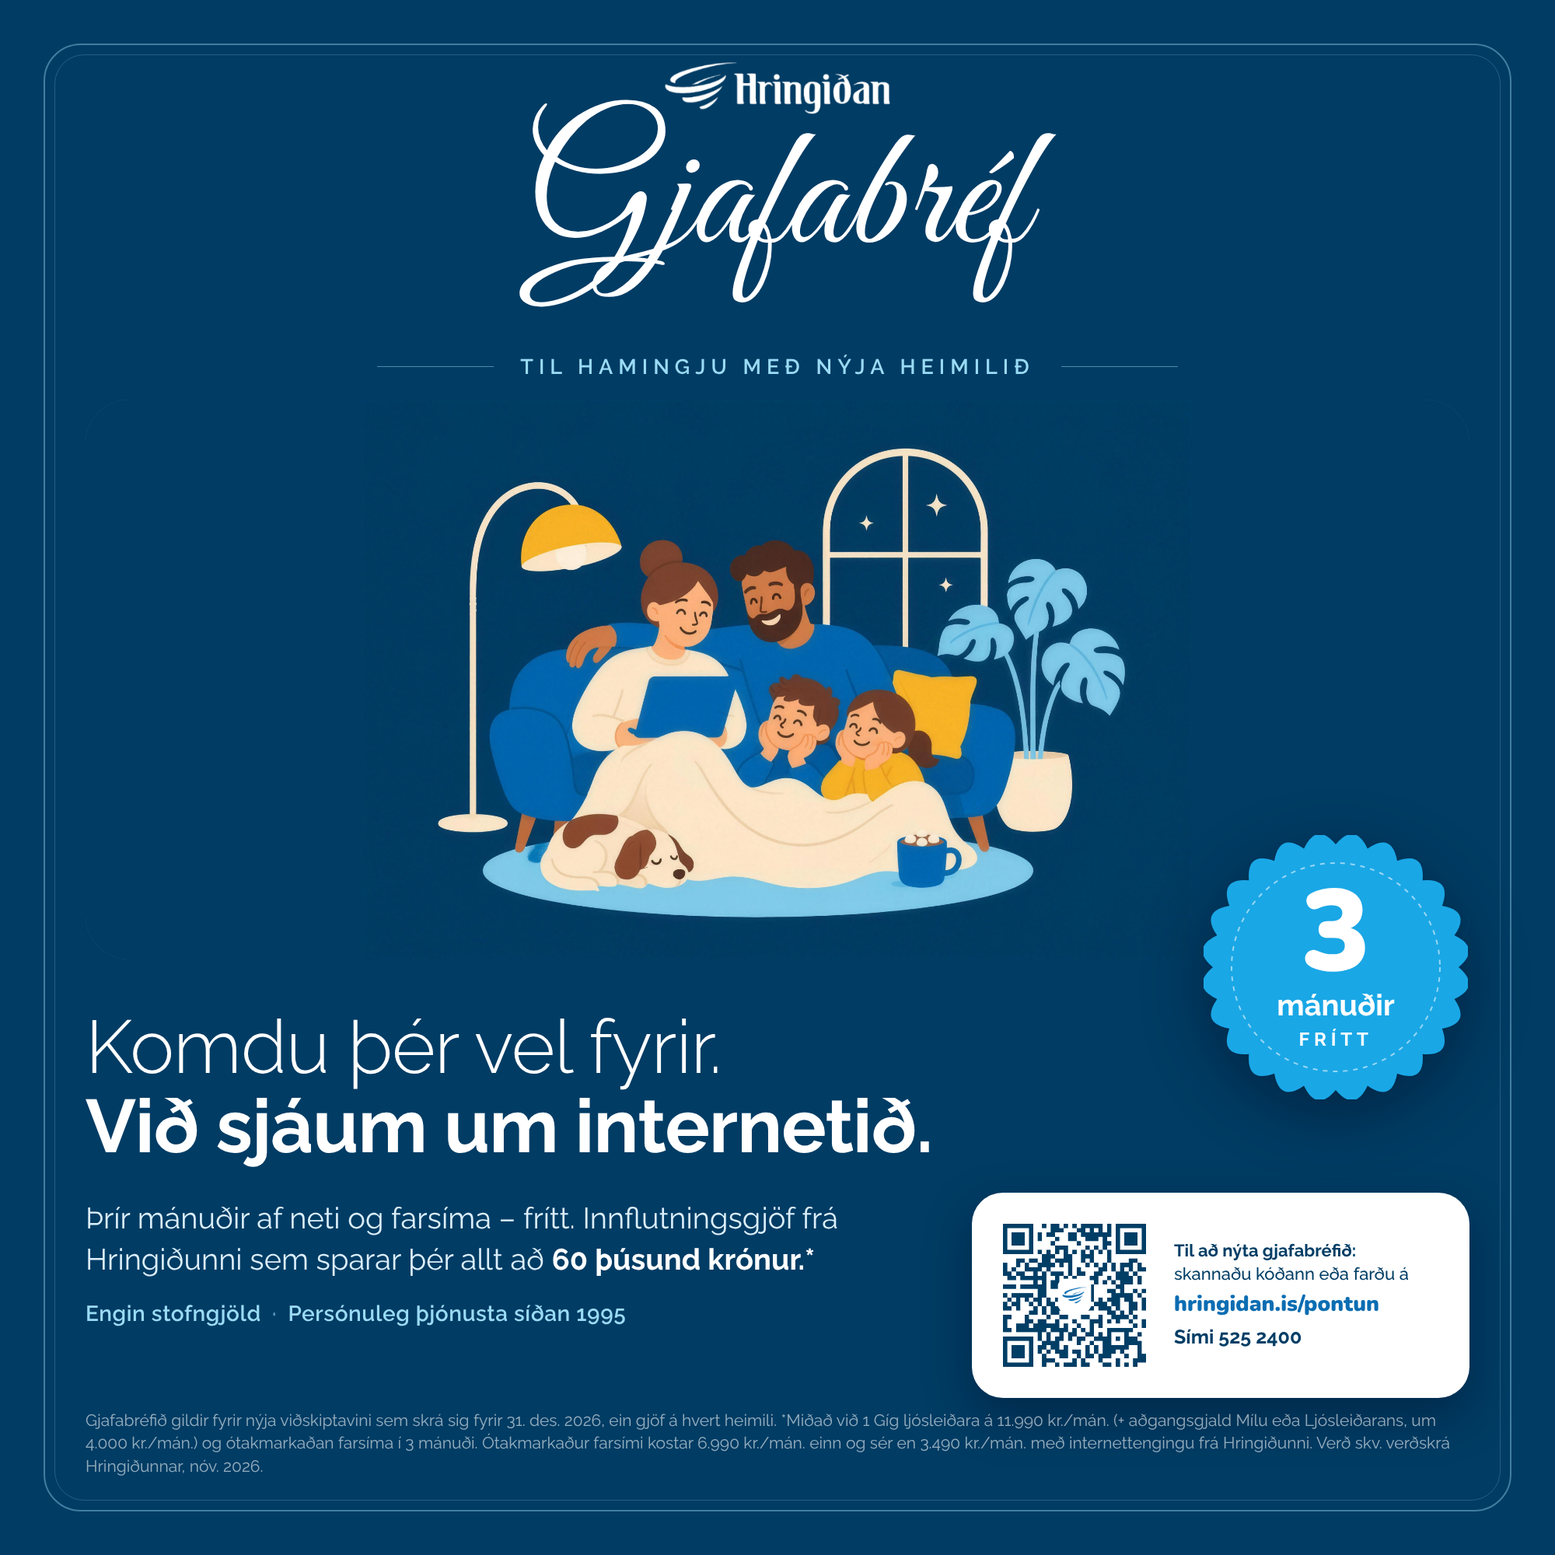
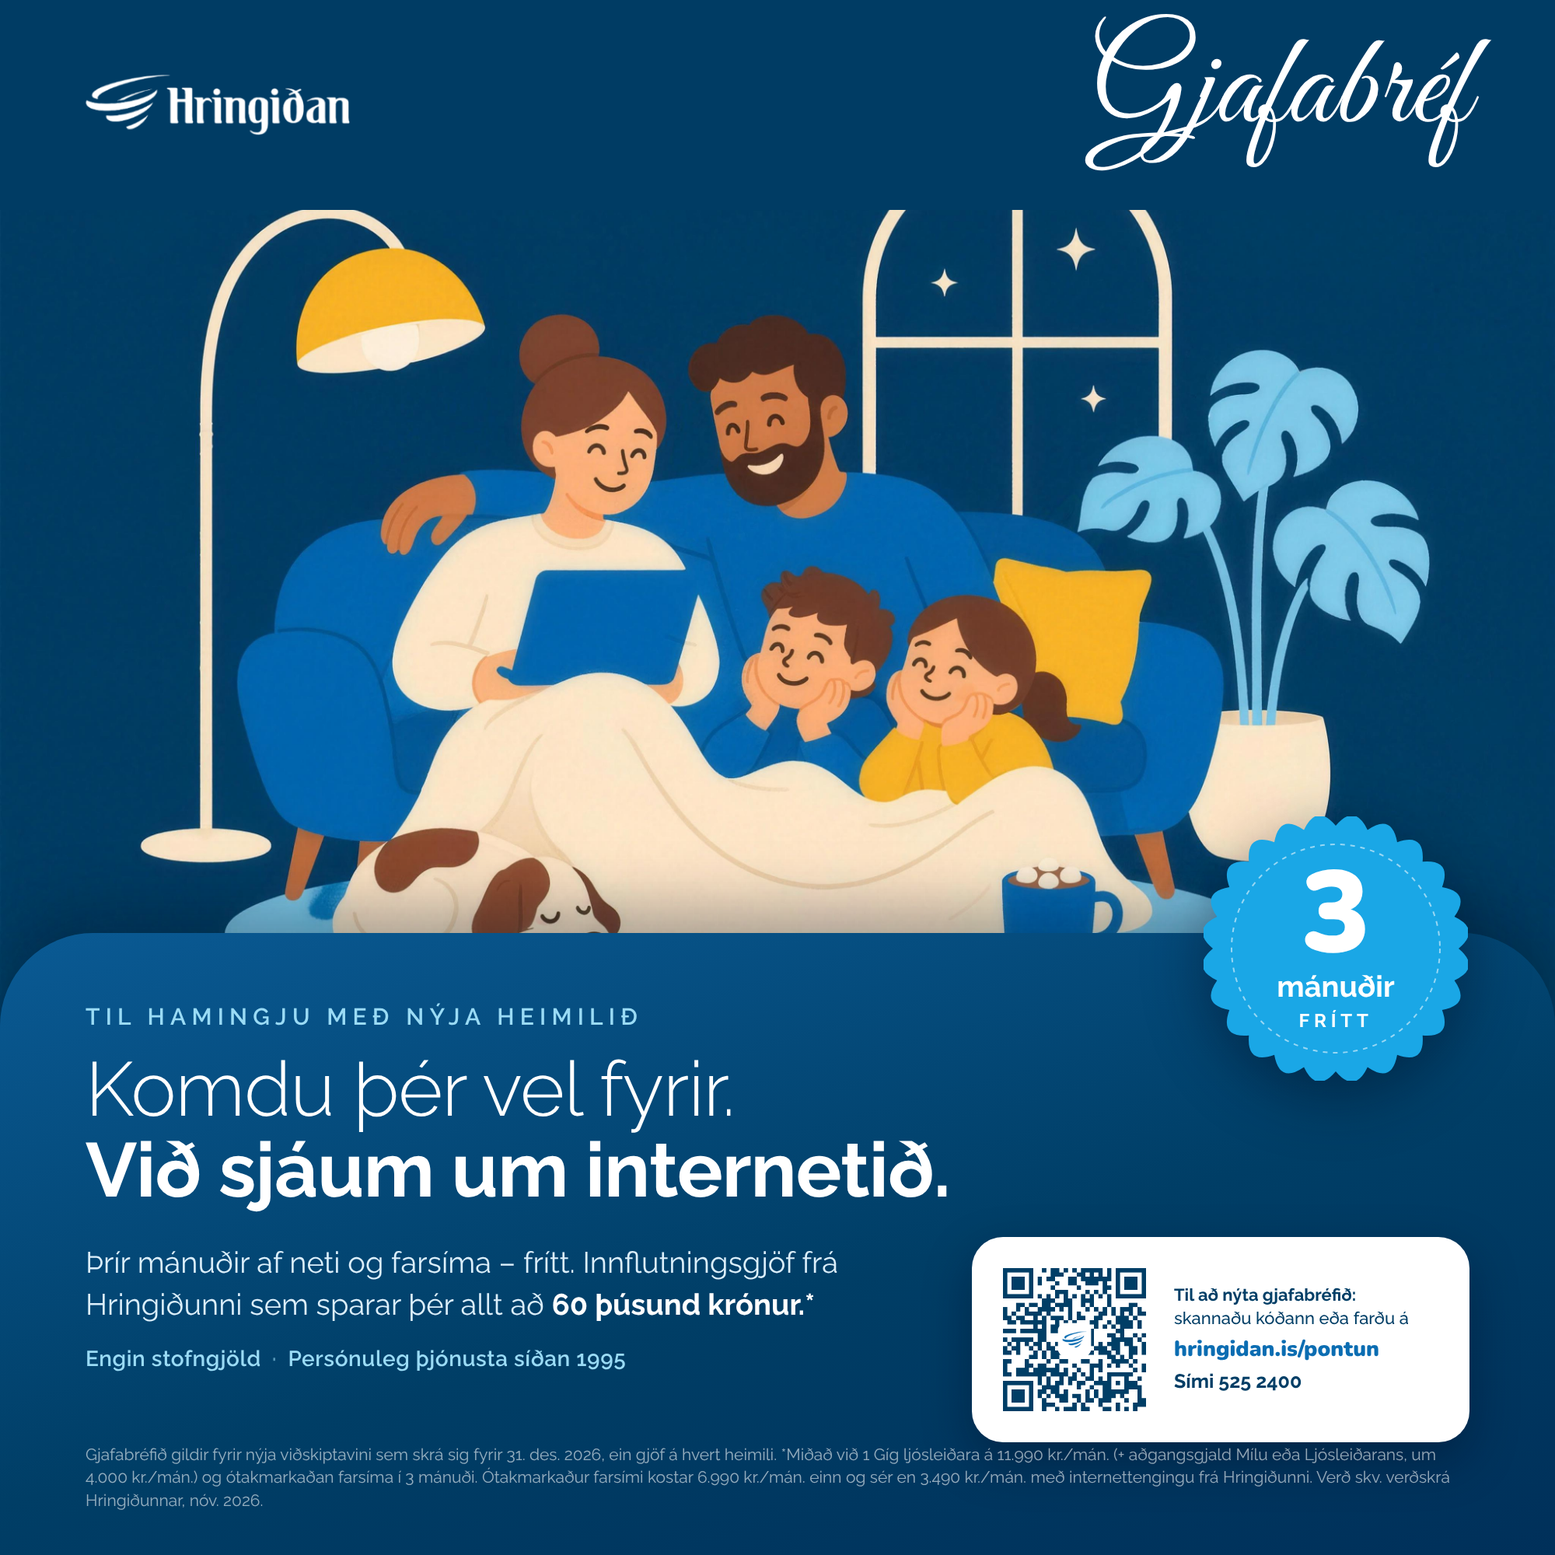
Hringiðan gjafabréf: aftur í fyrstu uppsetningu með navy-bandi og skrautskrift
Myndin aftur út í kant og neðar, navy-band efst með lógói vinstra megin og
„Gjafabréf" í skrautskrift hægra megin svo ekkert skarist. Nýja ljósmyndin
og nýi textinn halda sér. Rammaútgáfan færð í eldri/.

Claude-Session: https://claude.ai/code/session_01JAXd2m9cesSq5STdzJxvnq

diff --git a/auglysingar/hringidan/src/hringidan-gjafabref-ljosmynd.html b/auglysingar/hringidan/src/hringidan-gjafabref-ljosmynd.html
@@ -1,26 +1,17 @@
-<!doctype html><html lang="is"><head><meta charset="utf-8"><title>Hringiðan – Gjafabréf</title>
+<!doctype html><html lang="is"><head><meta charset="utf-8"><title>Hringiðan – Gjafabréf (ljósmynd)</title>
 <link rel="stylesheet" href="base.css">
 <style>
   @font-face { font-family: 'GreatVibes'; src: url('GreatVibes.woff2') format('woff2'); }
   .ad { background: #003C64; color: #fff; }
-  .frame  { position: absolute; inset: 56px; border: 2px solid rgba(154,219,245,.42); border-radius: 48px; pointer-events: none; }
-  .frame2 { position: absolute; inset: 70px; border: 1px solid rgba(154,219,245,.22); border-radius: 38px; pointer-events: none; }
-  .logo { position: absolute; left: 50%; top: 80px; width: 290px; transform: translateX(-50%); }
-  .title { position: absolute; left: 0; right: 0; top: 150px; text-align: center; font-family: 'GreatVibes', cursive; font-size: 222px; line-height: 1; color: #fff; }
-  .eyebrow { position: absolute; left: 110px; right: 110px; top: 456px; display: flex; align-items: center; justify-content: center; gap: 34px;
-             font-size: 27px; font-weight: 600; letter-spacing: .26em; text-transform: uppercase; color: var(--sky); }
-  .eyebrow::before, .eyebrow::after { content: ""; width: 150px; height: 1px; background: rgba(154,219,245,.5); }
-  .photo { position: absolute; left: 110px; top: 514px; width: 1780px; height: 720px; border-radius: 56px; overflow: hidden;
-           box-shadow: 0 30px 80px rgba(0,10,30,.45), inset 0 0 0 2px rgba(255,255,255,.10); }
-  .photo img { width: 1780px; height: 720px; object-fit: cover; object-position: 50% 62%; display: block; }
-  .seal { position: absolute; left: 1548px; top: 1074px; width: 340px; height: 340px; filter: drop-shadow(0 22px 40px rgba(0,10,30,.45)); }
-  .seal svg { width: 340px; height: 340px; display: block; }
-  .seal .t { position: absolute; inset: 0; display: flex; flex-direction: column; align-items: center; justify-content: center; text-align: center; }
-  .seal .big { font-family: 'Nunito', sans-serif; font-weight: 900; font-size: 148px; line-height: .9; margin-top: -4px; }
-  .seal .mid { font-size: 38px; font-weight: 700; line-height: 1; margin-top: 8px; }
-  .seal .small { font-size: 24px; font-weight: 700; letter-spacing: .24em; text-transform: uppercase; margin-top: 10px; }
-  .body { position: absolute; left: 110px; right: 110px; top: 1296px; }
-  .headline { font-size: 96px; line-height: 1.06; font-weight: 300; letter-spacing: -0.01em; }
+  .head { position: absolute; left: 0; top: 0; width: 2000px; height: 270px; background: #003C64; }
+  .logo { position: absolute; left: 110px; top: 96px; width: 340px; }
+  .gift { position: absolute; right: 110px; top: 34px; font-family: 'GreatVibes', cursive; font-size: 168px; line-height: 1; color: #fff; }
+  .photo { position: absolute; left: 0; top: 270px; width: 2000px; height: 1010px; overflow: hidden; }
+  .photo img { width: 2000px; height: 1010px; display: block; object-fit: cover; object-position: 50% 72%; }
+  .panel { position: absolute; left: 0; right: 0; top: 1200px; bottom: 0; border-radius: 120px 120px 0 0; padding: 90px 110px 0;
+           background: linear-gradient(165deg, #0A5A94 0%, #003E66 55%, #00305A 100%); box-shadow: 0 -30px 80px rgba(0,20,40,.35); }
+  .eyebrow { font-size: 30px; font-weight: 600; letter-spacing: .24em; text-transform: uppercase; color: var(--sky); }
+  .headline { margin-top: 24px; font-size: 98px; line-height: 1.06; font-weight: 300; letter-spacing: -0.01em; }
   .headline b { font-weight: 700; }
   .row { display: flex; align-items: flex-start; justify-content: space-between; margin-top: 40px; }
   .col { width: 1080px; }
@@ -36,16 +27,20 @@
   .cta .txt b { font-weight: 700; }
   .cta .txt .url { font-family: 'Nunito', sans-serif; font-weight: 900; font-size: 28px; margin: 6px 0 6px; color: var(--blue); }
   .cta .txt .tel { font-size: 25px; font-weight: 700; }
-  .fine { position: absolute; left: 110px; right: 110px; bottom: 100px; font-size: 21px; line-height: 1.4; color: rgba(255,255,255,.58); }
+  .fine { position: absolute; left: 110px; right: 110px; bottom: 56px; font-size: 21px; line-height: 1.4; color: rgba(255,255,255,.58); }
+  .seal { position: absolute; left: 1548px; top: 1050px; width: 340px; height: 340px; filter: drop-shadow(0 22px 40px rgba(0,10,30,.45)); }
+  .seal svg { width: 340px; height: 340px; display: block; }
+  .seal .t { position: absolute; inset: 0; display: flex; flex-direction: column; align-items: center; justify-content: center; text-align: center; }
+  .seal .big { font-family: 'Nunito', sans-serif; font-weight: 900; font-size: 148px; line-height: .9; margin-top: -4px; }
+  .seal .mid { font-size: 38px; font-weight: 700; line-height: 1; margin-top: 8px; }
+  .seal .small { font-size: 24px; font-weight: 700; letter-spacing: .24em; text-transform: uppercase; margin-top: 10px; }
 </style></head><body><div class="ad">
-  <div class="frame"></div><div class="frame2"></div>
+  <div class="head"></div>
   <img class="logo" src="logo_white.png" alt="Hringiðan">
-  <div class="title">Gjafabréf</div>
-  <div class="eyebrow">Til hamingju með nýja heimilið</div>
+  <div class="gift">Gjafabréf</div>
   <div class="photo"><img src="photo_c.jpg" alt=""></div>
-  <div class="seal"><svg viewBox="0 0 340 340"><path d="M328.0,170.0 Q357.2,194.6 322.6,210.9 Q344.4,242.3 306.8,249.0 Q319.8,284.9 281.7,281.7 Q284.9,319.8 249.0,306.8 Q242.3,344.4 210.9,322.6 Q194.6,357.2 170.0,328.0 Q145.4,357.2 129.1,322.6 Q97.7,344.4 91.0,306.8 Q55.1,319.8 58.3,281.7 Q20.2,284.9 33.2,249.0 Q-4.4,242.3 17.4,210.9 Q-17.2,194.6 12.0,170.0 Q-17.2,145.4 17.4,129.1 Q-4.4,97.7 33.2,91.0 Q20.2,55.1 58.3,58.3 Q55.1,20.2 91.0,33.2 Q97.7,-4.4 129.1,17.4 Q145.4,-17.2 170.0,12.0 Q194.6,-17.2 210.9,17.4 Q242.3,-4.4 249.0,33.2 Q284.9,20.2 281.7,58.3 Q319.8,55.1 306.8,91.0 Q344.4,97.7 322.6,129.1 Q357.2,145.4 328.0,170.0 Z" fill="#1AA7E6"/><circle cx="170" cy="170" r="134" fill="none" stroke="rgba(255,255,255,.55)" stroke-width="2" stroke-dasharray="6 7"/></svg>
-    <div class="t"><div class="big">3</div><div class="mid">mánuðir</div><div class="small">frítt</div></div></div>
-  <div class="body">
+  <div class="panel">
+    <div class="eyebrow">Til hamingju með nýja heimilið</div>
     <div class="headline">Komdu þér vel fyrir.<br><b>Við sjáum um internetið.</b></div>
     <div class="row">
       <div class="col">
@@ -57,6 +52,8 @@
         <div class="txt"><b>Til að nýta gjafabréfið:</b><br>skannaðu kóðann eða farðu&nbsp;á<div class="url">hringidan.is/pontun</div><div class="tel">Sími 525 2400</div></div>
       </div>
     </div>
+    <p class="fine">Gjafabréfið gildir fyrir nýja viðskiptavini sem skrá sig fyrir 31. des. 2026, ein gjöf á hvert heimili. *Miðað við 1 Gíg ljósleiðara á 11.990 kr./mán. (+ aðgangsgjald Mílu eða Ljósleiðarans, um 4.000 kr./mán.) og ótakmarkaðan farsíma í 3 mánuði. Ótakmarkaður farsími kostar 6.990 kr./mán. einn og sér en 3.490 kr./mán. með internettengingu frá Hringiðunni. Verð skv. verðskrá Hringiðunnar, nóv. 2026.</p>
   </div>
-  <p class="fine">Gjafabréfið gildir fyrir nýja viðskiptavini sem skrá sig fyrir 31. des. 2026, ein gjöf á hvert heimili. *Miðað við 1 Gíg ljósleiðara á 11.990 kr./mán. (+ aðgangsgjald Mílu eða Ljósleiðarans, um 4.000 kr./mán.) og ótakmarkaðan farsíma í 3 mánuði. Ótakmarkaður farsími kostar 6.990 kr./mán. einn og sér en 3.490 kr./mán. með internettengingu frá Hringiðunni. Verð skv. verðskrá Hringiðunnar, nóv. 2026.</p>
+  <div class="seal"><svg viewBox="0 0 340 340"><path d="M328.0,170.0 Q357.2,194.6 322.6,210.9 Q344.4,242.3 306.8,249.0 Q319.8,284.9 281.7,281.7 Q284.9,319.8 249.0,306.8 Q242.3,344.4 210.9,322.6 Q194.6,357.2 170.0,328.0 Q145.4,357.2 129.1,322.6 Q97.7,344.4 91.0,306.8 Q55.1,319.8 58.3,281.7 Q20.2,284.9 33.2,249.0 Q-4.4,242.3 17.4,210.9 Q-17.2,194.6 12.0,170.0 Q-17.2,145.4 17.4,129.1 Q-4.4,97.7 33.2,91.0 Q20.2,55.1 58.3,58.3 Q55.1,20.2 91.0,33.2 Q97.7,-4.4 129.1,17.4 Q145.4,-17.2 170.0,12.0 Q194.6,-17.2 210.9,17.4 Q242.3,-4.4 249.0,33.2 Q284.9,20.2 281.7,58.3 Q319.8,55.1 306.8,91.0 Q344.4,97.7 322.6,129.1 Q357.2,145.4 328.0,170.0 Z" fill="#1AA7E6"/><circle cx="170" cy="170" r="134" fill="none" stroke="rgba(255,255,255,.55)" stroke-width="2" stroke-dasharray="6 7"/></svg>
+    <div class="t"><div class="big">3</div><div class="mid">mánuðir</div><div class="small">frítt</div></div></div>
 </div></body></html>

diff --git a/auglysingar/hringidan/src/hringidan-gjafabref-2d.html b/auglysingar/hringidan/src/hringidan-gjafabref-2d.html
@@ -3,24 +3,15 @@
 <style>
   @font-face { font-family: 'GreatVibes'; src: url('GreatVibes.woff2') format('woff2'); }
   .ad { background: #003C64; color: #fff; }
-  .frame  { position: absolute; inset: 56px; border: 2px solid rgba(154,219,245,.42); border-radius: 48px; pointer-events: none; }
-  .frame2 { position: absolute; inset: 70px; border: 1px solid rgba(154,219,245,.22); border-radius: 38px; pointer-events: none; }
-  .logo { position: absolute; left: 50%; top: 80px; width: 290px; transform: translateX(-50%); }
-  .title { position: absolute; left: 0; right: 0; top: 150px; text-align: center; font-family: 'GreatVibes', cursive; font-size: 222px; line-height: 1; color: #fff; }
-  .eyebrow { position: absolute; left: 110px; right: 110px; top: 456px; display: flex; align-items: center; justify-content: center; gap: 34px;
-             font-size: 27px; font-weight: 600; letter-spacing: .26em; text-transform: uppercase; color: var(--sky); }
-  .eyebrow::before, .eyebrow::after { content: ""; width: 150px; height: 1px; background: rgba(154,219,245,.5); }
-  .photo { position: absolute; left: 110px; top: 514px; width: 1780px; height: 720px; border-radius: 56px; overflow: hidden;
-           box-shadow: inset 0 0 0 2px rgba(154,219,245,.28); background: #003C64; }
-  .photo img { width: 1780px; height: 720px; object-fit: contain; object-position: 50% 50%; background: #003C64; display: block; }
-  .seal { position: absolute; left: 1548px; top: 1074px; width: 340px; height: 340px; filter: drop-shadow(0 22px 40px rgba(0,10,30,.45)); }
-  .seal svg { width: 340px; height: 340px; display: block; }
-  .seal .t { position: absolute; inset: 0; display: flex; flex-direction: column; align-items: center; justify-content: center; text-align: center; }
-  .seal .big { font-family: 'Nunito', sans-serif; font-weight: 900; font-size: 148px; line-height: .9; margin-top: -4px; }
-  .seal .mid { font-size: 38px; font-weight: 700; line-height: 1; margin-top: 8px; }
-  .seal .small { font-size: 24px; font-weight: 700; letter-spacing: .24em; text-transform: uppercase; margin-top: 10px; }
-  .body { position: absolute; left: 110px; right: 110px; top: 1296px; }
-  .headline { font-size: 96px; line-height: 1.06; font-weight: 300; letter-spacing: -0.01em; }
+  .head { position: absolute; left: 0; top: 0; width: 2000px; height: 270px; background: #003C64; }
+  .logo { position: absolute; left: 110px; top: 96px; width: 340px; }
+  .gift { position: absolute; right: 110px; top: 34px; font-family: 'GreatVibes', cursive; font-size: 168px; line-height: 1; color: #fff; }
+  .photo { position: absolute; left: 0; top: 270px; width: 2000px; height: 1010px; overflow: hidden; }
+  .photo img { width: 2000px; height: 1010px; display: block; object-fit: cover; object-position: 50% 60%; background: #003C64; }
+  .panel { position: absolute; left: 0; right: 0; top: 1200px; bottom: 0; border-radius: 120px 120px 0 0; padding: 90px 110px 0;
+           background: linear-gradient(165deg, #0A5A94 0%, #003E66 55%, #00305A 100%); box-shadow: 0 -30px 80px rgba(0,20,40,.35); }
+  .eyebrow { font-size: 30px; font-weight: 600; letter-spacing: .24em; text-transform: uppercase; color: var(--sky); }
+  .headline { margin-top: 24px; font-size: 98px; line-height: 1.06; font-weight: 300; letter-spacing: -0.01em; }
   .headline b { font-weight: 700; }
   .row { display: flex; align-items: flex-start; justify-content: space-between; margin-top: 40px; }
   .col { width: 1080px; }
@@ -36,16 +27,20 @@
   .cta .txt b { font-weight: 700; }
   .cta .txt .url { font-family: 'Nunito', sans-serif; font-weight: 900; font-size: 28px; margin: 6px 0 6px; color: var(--blue); }
   .cta .txt .tel { font-size: 25px; font-weight: 700; }
-  .fine { position: absolute; left: 110px; right: 110px; bottom: 100px; font-size: 21px; line-height: 1.4; color: rgba(255,255,255,.58); }
+  .fine { position: absolute; left: 110px; right: 110px; bottom: 56px; font-size: 21px; line-height: 1.4; color: rgba(255,255,255,.58); }
+  .seal { position: absolute; left: 1548px; top: 1050px; width: 340px; height: 340px; filter: drop-shadow(0 22px 40px rgba(0,10,30,.45)); }
+  .seal svg { width: 340px; height: 340px; display: block; }
+  .seal .t { position: absolute; inset: 0; display: flex; flex-direction: column; align-items: center; justify-content: center; text-align: center; }
+  .seal .big { font-family: 'Nunito', sans-serif; font-weight: 900; font-size: 148px; line-height: .9; margin-top: -4px; }
+  .seal .mid { font-size: 38px; font-weight: 700; line-height: 1; margin-top: 8px; }
+  .seal .small { font-size: 24px; font-weight: 700; letter-spacing: .24em; text-transform: uppercase; margin-top: 10px; }
 </style></head><body><div class="ad">
-  <div class="frame"></div><div class="frame2"></div>
+  <div class="head"></div>
   <img class="logo" src="logo_white.png" alt="Hringiðan">
-  <div class="title">Gjafabréf</div>
-  <div class="eyebrow">Til hamingju með nýja heimilið</div>
+  <div class="gift">Gjafabréf</div>
   <div class="photo"><img src="illu.png" alt=""></div>
-  <div class="seal"><svg viewBox="0 0 340 340"><path d="M328.0,170.0 Q357.2,194.6 322.6,210.9 Q344.4,242.3 306.8,249.0 Q319.8,284.9 281.7,281.7 Q284.9,319.8 249.0,306.8 Q242.3,344.4 210.9,322.6 Q194.6,357.2 170.0,328.0 Q145.4,357.2 129.1,322.6 Q97.7,344.4 91.0,306.8 Q55.1,319.8 58.3,281.7 Q20.2,284.9 33.2,249.0 Q-4.4,242.3 17.4,210.9 Q-17.2,194.6 12.0,170.0 Q-17.2,145.4 17.4,129.1 Q-4.4,97.7 33.2,91.0 Q20.2,55.1 58.3,58.3 Q55.1,20.2 91.0,33.2 Q97.7,-4.4 129.1,17.4 Q145.4,-17.2 170.0,12.0 Q194.6,-17.2 210.9,17.4 Q242.3,-4.4 249.0,33.2 Q284.9,20.2 281.7,58.3 Q319.8,55.1 306.8,91.0 Q344.4,97.7 322.6,129.1 Q357.2,145.4 328.0,170.0 Z" fill="#1AA7E6"/><circle cx="170" cy="170" r="134" fill="none" stroke="rgba(255,255,255,.55)" stroke-width="2" stroke-dasharray="6 7"/></svg>
-    <div class="t"><div class="big">3</div><div class="mid">mánuðir</div><div class="small">frítt</div></div></div>
-  <div class="body">
+  <div class="panel">
+    <div class="eyebrow">Til hamingju með nýja heimilið</div>
     <div class="headline">Komdu þér vel fyrir.<br><b>Við sjáum um internetið.</b></div>
     <div class="row">
       <div class="col">
@@ -57,6 +52,8 @@
         <div class="txt"><b>Til að nýta gjafabréfið:</b><br>skannaðu kóðann eða farðu&nbsp;á<div class="url">hringidan.is/pontun</div><div class="tel">Sími 525 2400</div></div>
       </div>
     </div>
+    <p class="fine">Gjafabréfið gildir fyrir nýja viðskiptavini sem skrá sig fyrir 31. des. 2026, ein gjöf á hvert heimili. *Miðað við 1 Gíg ljósleiðara á 11.990 kr./mán. (+ aðgangsgjald Mílu eða Ljósleiðarans, um 4.000 kr./mán.) og ótakmarkaðan farsíma í 3 mánuði. Ótakmarkaður farsími kostar 6.990 kr./mán. einn og sér en 3.490 kr./mán. með internettengingu frá Hringiðunni. Verð skv. verðskrá Hringiðunnar, nóv. 2026.</p>
   </div>
-  <p class="fine">Gjafabréfið gildir fyrir nýja viðskiptavini sem skrá sig fyrir 31. des. 2026, ein gjöf á hvert heimili. *Miðað við 1 Gíg ljósleiðara á 11.990 kr./mán. (+ aðgangsgjald Mílu eða Ljósleiðarans, um 4.000 kr./mán.) og ótakmarkaðan farsíma í 3 mánuði. Ótakmarkaður farsími kostar 6.990 kr./mán. einn og sér en 3.490 kr./mán. með internettengingu frá Hringiðunni. Verð skv. verðskrá Hringiðunnar, nóv. 2026.</p>
+  <div class="seal"><svg viewBox="0 0 340 340"><path d="M328.0,170.0 Q357.2,194.6 322.6,210.9 Q344.4,242.3 306.8,249.0 Q319.8,284.9 281.7,281.7 Q284.9,319.8 249.0,306.8 Q242.3,344.4 210.9,322.6 Q194.6,357.2 170.0,328.0 Q145.4,357.2 129.1,322.6 Q97.7,344.4 91.0,306.8 Q55.1,319.8 58.3,281.7 Q20.2,284.9 33.2,249.0 Q-4.4,242.3 17.4,210.9 Q-17.2,194.6 12.0,170.0 Q-17.2,145.4 17.4,129.1 Q-4.4,97.7 33.2,91.0 Q20.2,55.1 58.3,58.3 Q55.1,20.2 91.0,33.2 Q97.7,-4.4 129.1,17.4 Q145.4,-17.2 170.0,12.0 Q194.6,-17.2 210.9,17.4 Q242.3,-4.4 249.0,33.2 Q284.9,20.2 281.7,58.3 Q319.8,55.1 306.8,91.0 Q344.4,97.7 322.6,129.1 Q357.2,145.4 328.0,170.0 Z" fill="#1AA7E6"/><circle cx="170" cy="170" r="134" fill="none" stroke="rgba(255,255,255,.55)" stroke-width="2" stroke-dasharray="6 7"/></svg>
+    <div class="t"><div class="big">3</div><div class="mid">mánuðir</div><div class="small">frítt</div></div></div>
 </div></body></html>

diff --git a/auglysingar/hringidan/README.md b/auglysingar/hringidan/README.md
@@ -1,8 +1,8 @@
 # Hringiðan – Gjafabréf („Komdu þér vel fyrir“)
 
-Endurhönnun á innflutningsgjöf Hringiðunnar sem **gjafabréf**: navy-blár grunnur, „Gjafabréf“ í skrautskrift,
-ávalur rammi, fjölskyldumynd í kósý stemningu þar sem mamman er í tölvunni og pabbinn horfir á hana,
-krakkarnir með spjaldtölvu fyrir framan sófann, og innsigli „3 mánuðir frítt“. Innblástur: uppsetning Sýn-póstsins
+Endurhönnun á innflutningsgjöf Hringiðunnar sem **gjafabréf**: navy-blátt band efst með lógóinu vinstra megin og
+„Gjafabréf“ í skrautskrift hægra megin, fjölskyldumynd út í kant í kósý stemningu þar sem mamman er í tölvunni og
+pabbinn horfir á hana, krakkarnir með spjaldtölvu fyrir framan sófann, ávalur blár textaflötur og innsigli „3 mánuðir frítt“. Innblástur: uppsetning Sýn-póstsins
 (eitt ríkjandi litaþema, stór ávöl form, stuttur og vinalegur texti). Lógó, litir, QR-kóði og tilboð Hringiðunnar halda sér.
 
 ## Skrár
@@ -11,7 +11,7 @@ krakkarnir með spjaldtölvu fyrir framan sófann, og innsigli „3 mánuðir fr
 |---|---|
 | `hringidan-gjafabref-ljosmynd.png` / `.jpg` | **Aðalútgáfa** – ljósmynd. 2000×2000. |
 | `hringidan-gjafabref-2d.png` / `.jpg` | Sama gjafabréfs-rammi með flatri 2D teikningu. 2000×2000. |
-| `eldri/` | Fyrsta umferð (kósý útgáfur án gjafabréfs-ramma), til viðmiðunar. |
+| `eldri/` | Fyrri umferðir til viðmiðunar: `hringidan-kosy-*` (fyrsta umferð) og `hringidan-gjafabref-rammi-*` (útgáfa með skrautramma og mynd í spjaldi). |
 | `src/` | Breytanlegar HTML/CSS skrár, leturgerðir (Raleway, Nunito, Great Vibes), lógó með gegnsæi, QR-kóði og myndir. |
 
 ## Texti
